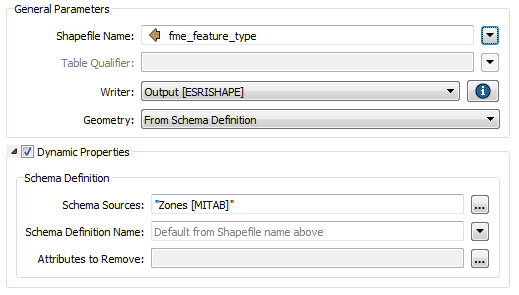
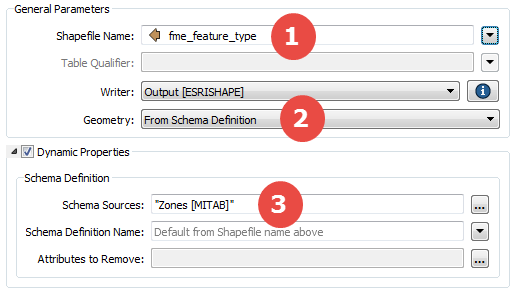
2016.1 updates for adv desktop ch4 (content only, ex to come)

Changed region(s): [[0.5241, 0.3051, 0.6474, 0.4881], [0.5241, 0.0305, 0.6166, 0.2136], [0.4933, 0.6102, 0.5857, 0.7932]]

diff --git a/DesktopAdvanced4AdvancedR+W/4.06.GenericReader.md b/DesktopAdvanced4AdvancedR+W/4.06.GenericReader.md
@@ -23,7 +23,7 @@ FME will examine the extension of the file chosen to identify the format of data
 <tr>
 <td style="border: 1px solid darkorange">
 <span style="font-family:serif; font-style:italic; font-size:larger">
-You're thinking there must be a catch, right? Well it's true. Firstly this technique only works with file-based formats (it won't work on a database or web format). Secondly, the Generic Reader is not immune from the Unexpected Input Remover and switching datasets - regardless of format - only works with a compatible schema.
+You're thinking there must be a catch, right? Well it's true. Firstly this technique only works with file-based formats (it won't work on a database or web format). Secondly, the Generic Reader is not immune from the Unexpected Input Remover, so switching datasets - regardless of format - only works with a compatible schema.
 </span>
 </td>
 </tr>
@@ -51,7 +51,7 @@ With that setup, any layer of data can be passed into the workspace, regardless 
 
 All Readers in a workspace have a number of parameters that can be used to control how that Reader operates. Each format has its own set of specialized parameters.
 
-However, the Generic Reader has only one parameter; to set the format of data being read:
+However, the Generic Reader has very few parameters, the main one being to set the format of data being read:
 
 ![](./Images/4.23.GenericReaderFormatParameter.png)
 

diff --git a/DesktopAdvanced4AdvancedR+W/4.08.DynamicTranslations.md b/DesktopAdvanced4AdvancedR+W/4.08.DynamicTranslations.md
@@ -4,7 +4,7 @@ Dynamic Translations are a way to create "schema-less" workspaces.
 
 ## What are Dynamic Translations? ##
 
-Most translations - and everything this training has covered so far - involve a schema being defined within the workspace. In other words, the source and destination schema reflect the structure of the source data (what we have) and the destination data the user requires (what we want).
+Most translations - and everything this training has covered so far - involve a schema being defined within the workspace. In other words, the source and destination schema reflect the structure of the source data (what we have) and the structure of the destination data the user requires (what we want).
 
 The layout of a dynamic translation does not reflect either the source or destination schema. It’s a universal layout that is designed to handle data regardless of what schema is being used.
 

diff --git a/DesktopAdvanced4AdvancedR+W/4.03.FeatureTypeFanout.md b/DesktopAdvanced4AdvancedR+W/4.03.FeatureTypeFanout.md
@@ -44,7 +44,7 @@ Two things to notice in that result are:
 <tr>
 <td style="border: 1px solid darkorange">
 <span style="font-family:serif; font-style:italic; font-size:larger">
-FME2016 (in fact, FME2015.1) introduced a changed technique for setting a feature type fanout, losing the "fanout" label at the same time. But, regardless of the label, it's still the same fanout as in previous versions. 
+FME2016 (in fact, FME2015.1) introduced the above technique as an easier way for setting a feature type fanout, losing the "fanout" label at the same time. But, regardless of the label, it's still the same fanout as in previous versions. 
 </span>
 </td>
 </tr>

diff --git a/DesktopAdvanced4AdvancedR+W/4.10.DynamicSchemaHandling.md b/DesktopAdvanced4AdvancedR+W/4.10.DynamicSchemaHandling.md
@@ -10,7 +10,7 @@ Unchecking that box turns off the full behaviour and there are not many paramete
 
 ![](./Images/4.35.DynamicWriterFTDialog.png)
 
-The three components of schema - feature type, geometry, and attributes - all have different ways in which they can be set.
+The three components of schema - 1) feature type, 2) geometry, and 3) attributes - all have different ways in which they can be set.
 
 ---
 

diff --git a/DesktopAdvanced4AdvancedR+W/4.01.ZipFileHandling.md b/DesktopAdvanced4AdvancedR+W/4.01.ZipFileHandling.md
@@ -1,7 +1,5 @@
 # Zip File Handling
 
-Zip files are a convenient way to write output datasets that need to be handled as a single unit.
-
 The Basic Desktop course covered how data can be read directly from a zip file. However, it is also possible to write data to a zip file.
 
 Zip files are a convenient way to write output datasets that need to be handled as a single unit.
